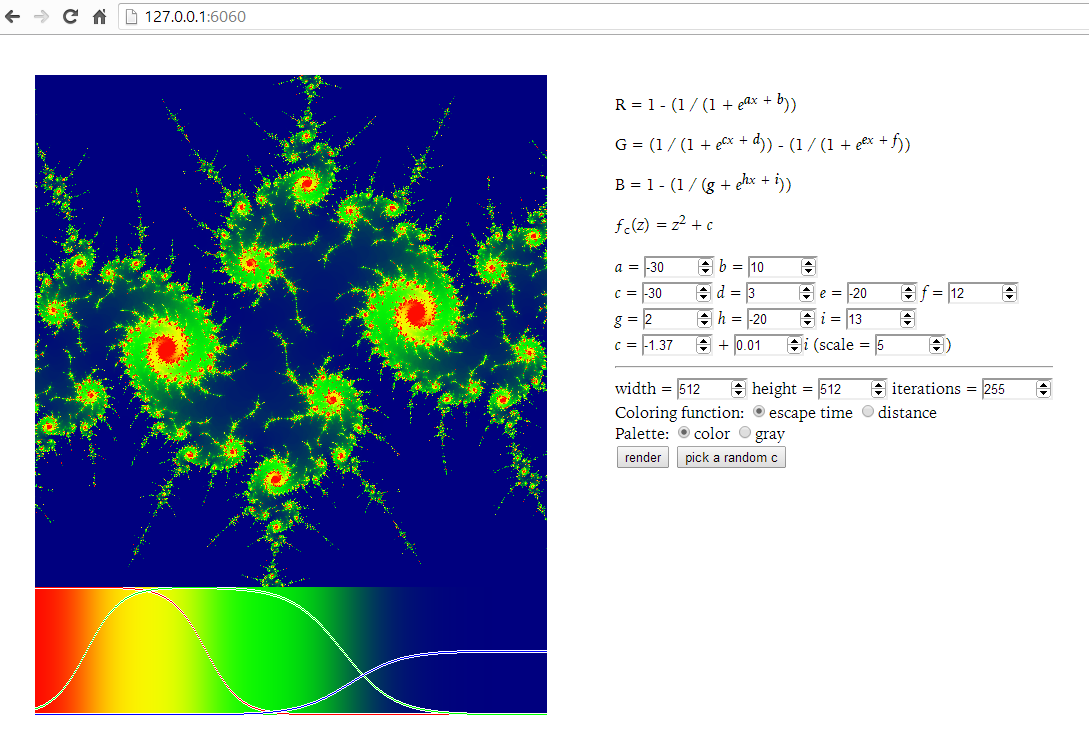
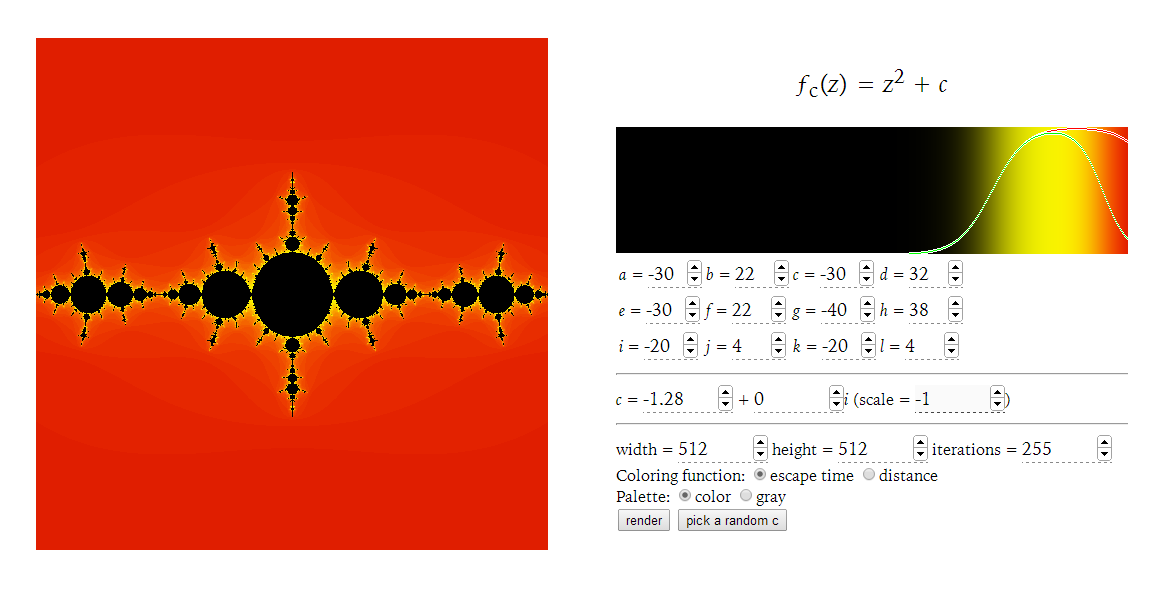
bug with vertical renderings

diff --git a/julia.go b/julia.go
@@ -85,7 +85,13 @@ func main() {
 
 		c := complex(cre, cim)
 		ymax := scale
-		xmax := scale * float64(width) / float64(height)
+		xmax := scale
+		if width >= height {
+			xmax *= float64(width) / float64(height)
+		} else {
+			ymax *= float64(height) / float64(width)
+		}
+
 		distMax := (xmax * 2) / float64(width)
 
 		coloring := r.FormValue("coloring")
@@ -159,7 +165,7 @@ func (s *JuliaSet) run(w io.Writer) {
 
 	for cpu := 0; cpu < cpus; cpu++ {
 		go func(n int) {
-			for py := 0; py < s.width; py++ {
+			for py := 0; py < s.height; py++ {
 				im := s.ymax*2.0*float64(py)/float64(s.height) - s.ymax
 				for px := n * slice; px < (n+1)*slice; px++ {
 					re := s.xmax*2.0*float64(px)/float64(s.width) - s.xmax
@@ -340,6 +346,7 @@ var index = `<!doctype html>
 				</td>
 			</tr>
 		</table>
+		<button type=button id=random-colors>Randomize color palette</button>
 		<hr>
 		<div>
 			<span><i>c</i> = <input name=re type=number value=0 step=0.01> +
@@ -365,8 +372,8 @@ var index = `<!doctype html>
 			<input name=palette type=radio value=color checked>color
 			<input name=palette type=radio value=gray>gray
 		</div>
-		<button id=submit name=submit type=button>render</button>
-		<button id=random type=button>pick a random c</button>
+		<button id=submit name=submit type=button>Render</button>
+		<button id=random type=button>Pick a random <i>c</i></button>
 	</form>
 	<script>
 		var vars = {
@@ -375,14 +382,18 @@ var index = `<!doctype html>
 			"i": -20, "j": 9, "k": -20, "l": 19,
 			//"re": Math.random()*2-1,
 			//"im": Math.random()*2-1,
-			"re": -0.75,
-			"im": 0.14,
+			"re": 0.285,
+			"im": 0.01,
 			"scale": 0, "width": 512, "height": 512,
 			"iterations": 255
 		};
 
 		var fractal, palette, inputs;
-		var submit, random;
+		var submit, random, randomColors;
+
+		function setVar(key, val) {
+			document.querySelector('[name=' + key + ']').value = vars[key] = val;
+		}
 
 		function radioValue(s) {
 			var inputs = document.getElementsByName(s);
@@ -399,7 +410,7 @@ var index = `<!doctype html>
 			}
 			if (stickButtons) {
 				submit.setAttribute('disabled');
-				submit.innerText = "rendering...";
+				submit.innerText = "Rendering...";
 				random.setAttribute('disabled');
 			}
 		}
@@ -409,7 +420,7 @@ var index = `<!doctype html>
 				input.removeAttribute('disabled');
 			}
 			submit.removeAttribute('disabled');
-			submit.innerText = "render";
+			submit.innerText = "Render";
 			random.removeAttribute("disabled");
 		}
 
@@ -464,6 +475,7 @@ var index = `<!doctype html>
 			inputs = document.querySelectorAll('input');
 			submit = document.querySelector('#submit');
 			random = document.querySelector("#random");
+			randomColors = document.querySelector('#random-colors');
 
 			for (var i = 0, input; input = inputs[i]; i++) {
 				input.addEventListener("input", function(e) {
@@ -487,8 +499,27 @@ var index = `<!doctype html>
 			updatePalette();
 			submit.addEventListener("click", updateFractal);
 			random.addEventListener("click", function() {
-				document.querySelector('[name=re]').value = vars['re'] = Math.random()*2-1;
-				document.querySelector('[name=im]').value = vars['im'] = Math.random()*2-1;
+				setVar('re', Math.random()*2 - 1);
+				setVar('im', Math.random()*2 - 1);
+				updateFractal();
+			});
+			randomColors.addEventListener('click', function() {
+				var b = Math.floor(Math.random()*15);
+				var f = Math.floor(Math.random()*15);
+				var j = Math.floor(Math.random()*15);
+				setVar('a', Math.floor(-Math.random()*10 - 15));
+				setVar('b', b);
+				setVar('c', Math.floor(-Math.random()*10 - 15));
+				setVar('d', b + Math.ceil(Math.random()*15));
+				setVar('e', Math.floor(-Math.random()*10 - 15));
+				setVar('f', f);
+				setVar('g', Math.floor(-Math.random()*10 - 15));
+				setVar('h', f + Math.ceil(Math.random()*15));
+				setVar('i', Math.floor(-Math.random()*10 - 15));
+				setVar('j', j);
+				setVar('k', Math.floor(-Math.random()*10 - 15));
+				setVar('l', j + Math.ceil(Math.random()*15));
+				updatePalette();
 				updateFractal();
 			});
 		});
